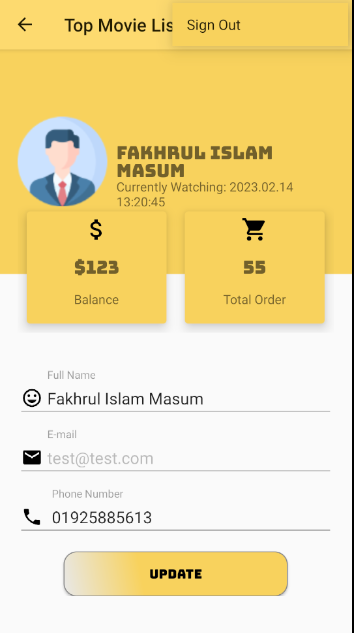
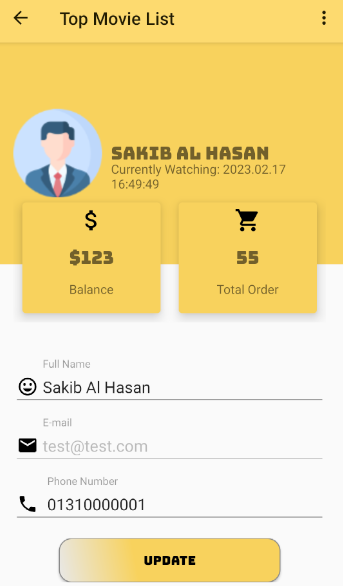
Update readme file

diff --git a/README.md b/README.md
@@ -1,2 +1,22 @@
 # TopMovieList
 Android App to show top rated movies list.
+
+# SignIn-SignUp
+- For SignIn and SignUp `Firebase` have been used.
+
+![alt text](https://github.com/Masum-ipv/TopMovieList/blob/master/screenshot/signin.PNG?raw=true) 
+![alt text](https://github.com/Masum-ipv/TopMovieList/blob/master/screenshot/signin.PNG?raw=true)
+
+# My Profile
+- To Store and Update data `Firebase` have been used.
+- `Firebase` Sign Out feature have been used.
+- `Shared Preferences` have been used to store user login time.
+
+![alt text](https://github.com/Masum-ipv/TopMovieList/blob/master/screenshot/myProfile.PNG?raw=true)
+
+# Dashboard
+- `Retrofit` have been used to get [Top Rated Movies](https://developers.themoviedb.org/3/movies/get-top-rated-movies).
+- After successful fetching data saved in `RoomDatabase`
+- When data fetching failed App loads data from local database.
+
+![alt text](https://github.com/Masum-ipv/TopMovieList/blob/master/screenshot/dashboard.PNG?raw=true)
